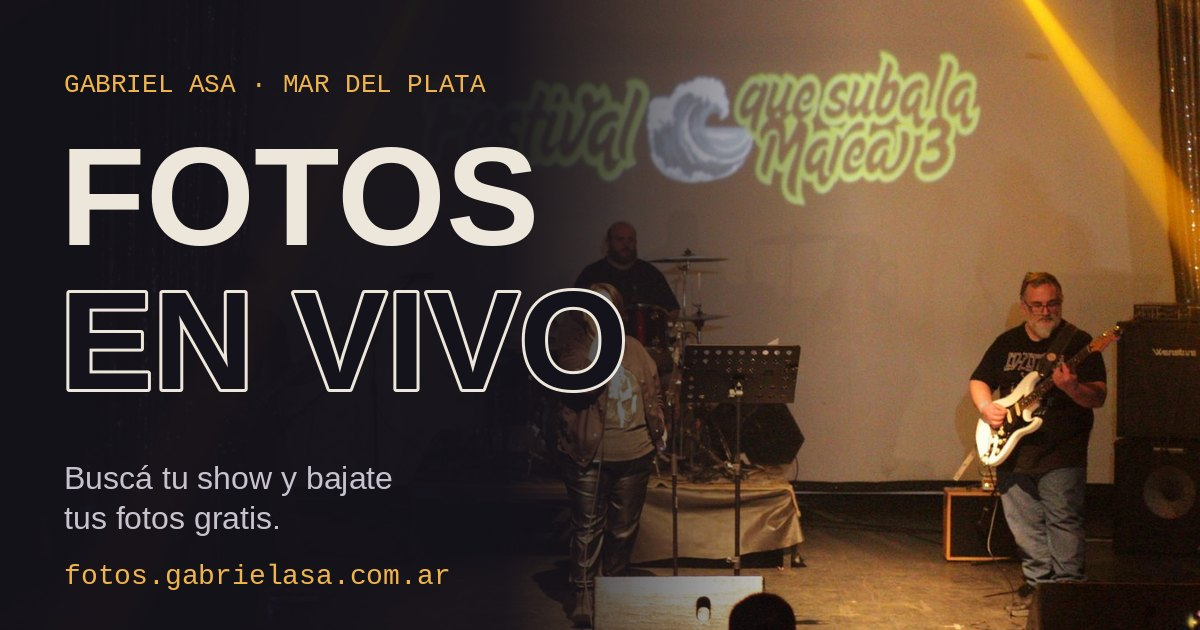
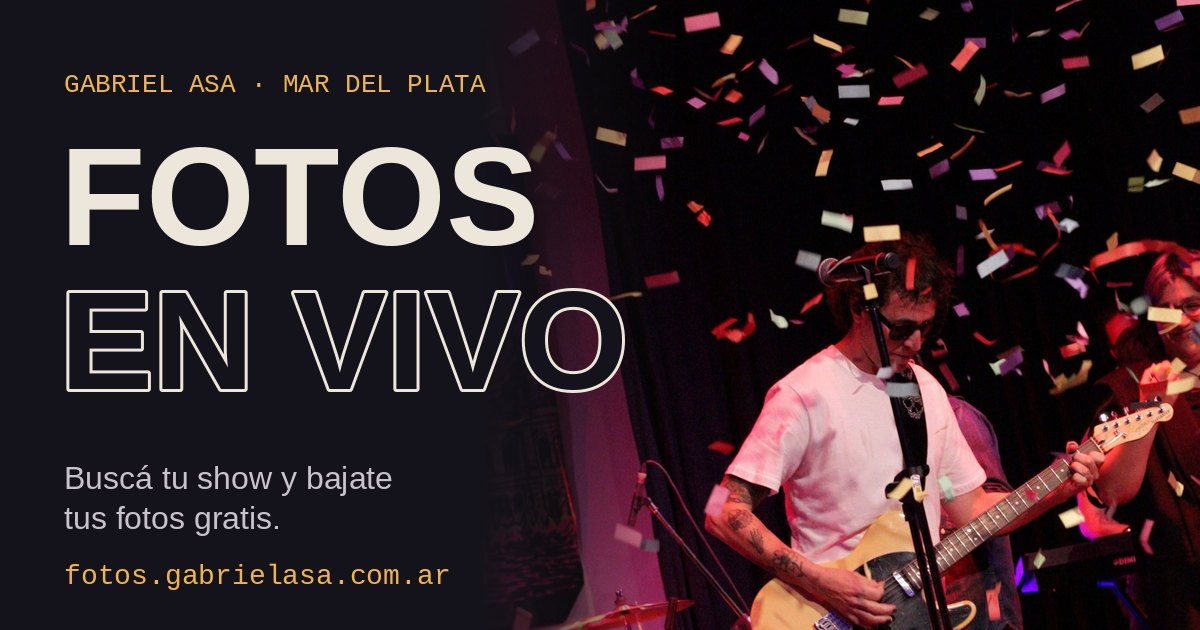
Portada y vista previa con la foto de Georgie Boy entre papelitos
Claude-Session: https://claude.ai/code/session_01FMRAzKTfqFkVQbvApuJsK7

diff --git a/index.html b/index.html
@@ -51,14 +51,13 @@ button{font:inherit}
 .aviso{font-family:var(--f-dato);font-size:12px;color:var(--humo);border:1px dashed var(--linea);border-radius:6px;padding:8px 12px;margin-top:16px}
 .aviso b{color:var(--tungsteno);font-weight:500}
 
-header.cartel{padding-block:40px 28px;display:grid;grid-template-columns:minmax(0,1.05fr) minmax(0,1fr);gap:32px;align-items:center}
+header.cartel{padding-block:40px 28px;display:grid;grid-template-columns:minmax(0,1.1fr) minmax(0,1fr);gap:0;align-items:center}
 .cartel-txt{display:grid;gap:10px;min-width:0}
 .soy{margin:0;max-width:52ch;color:var(--humo);font-size:15px}
-.portada{display:grid;grid-template-columns:1fr 1fr;gap:8px;min-width:0}
-.portada button{border:0;padding:0;background:var(--tablado);border-radius:6px;overflow:hidden;cursor:zoom-in;aspect-ratio:3/2;display:block}
-.portada button:first-child{grid-column:1/-1;aspect-ratio:16/9}
-.portada img{width:100%;height:100%;object-fit:cover;display:block;transition:transform .5s ease}
-.portada button:hover img{transform:scale(1.03)}
+.portada{min-width:0;align-self:stretch;margin-block:-40px -28px;margin-right:calc(-1 * max(16px,(100vw - 1120px)/2));position:relative}
+.portada button{border:0;padding:0;background:none;cursor:zoom-in;display:block;width:100%;height:100%;min-height:420px}
+.portada img{width:100%;height:100%;object-fit:cover;object-position:50% 30%;display:block;
+  -webkit-mask-image:linear-gradient(to right,transparent 0,rgba(0,0,0,.35) 25%,#000 60%);mask-image:linear-gradient(to right,transparent 0,rgba(0,0,0,.35) 25%,#000 60%)}
 .obra summary{cursor:pointer;list-style:none;font-size:14px;color:var(--humo);line-height:1.5}
 .obra summary::-webkit-details-marker{display:none}
 .obra summary .obra-tag{margin-right:6px}
@@ -207,7 +206,9 @@ legend{font-family:var(--f-dato);font-size:12px;text-transform:uppercase;letter-
 @media (max-width:820px){
   header.cartel{grid-template-columns:minmax(0,1fr);gap:10px;padding-block:28px 22px}
   .cartel-txt{display:contents}
-  .firma{order:1} h1{order:2} .bajada{order:3} .portada{order:4;margin-block:6px} .soy{order:5} .nav{order:6} .obra{order:7}
+  .firma{order:1} h1{order:2} .bajada{order:3} .portada{order:4;margin:4px calc(-1 * max(16px,env(safe-area-inset-left,0px)));align-self:auto}
+  .portada button{min-height:0;aspect-ratio:4/3}
+  .portada img{-webkit-mask-image:linear-gradient(to bottom,transparent 0,#000 18%,#000 82%,transparent 100%);mask-image:linear-gradient(to bottom,transparent 0,#000 18%,#000 82%,transparent 100%)} .soy{order:5} .nav{order:6} .obra{order:7}
   :root{--fila:130px}
   .evento{grid-template-columns:minmax(0,1fr);gap:14px}
   .ver-mas{grid-column:1;margin-top:-6px}
